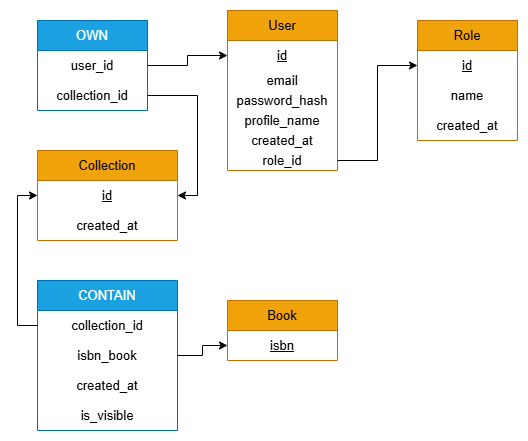
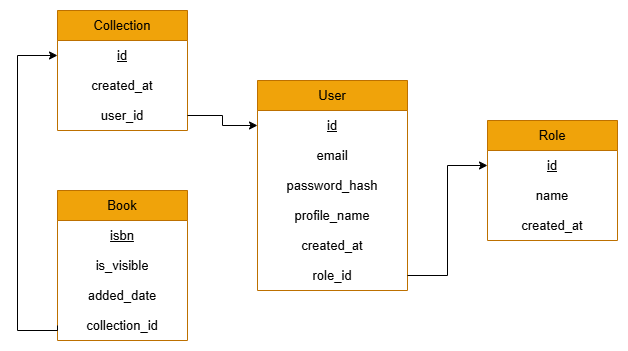
Update MCD, MLD, ERD and modified the risk analysis section in README in table form

diff --git a/DICTIONNAIRE_DONNEES.md b/DICTIONNAIRE_DONNEES.md
@@ -36,11 +36,14 @@ Ce document présente le dictionnaire de données du projet WikiBouquin, détail
 |----------|------|-------------|-------------|
 | `id` | INT | PRIMARY KEY, AUTO_INCREMENT | Identifiant unique de la collection |
 | `date_creation` | TIMESTAMP | NOT NULL, DEFAULT CURRENT_TIMESTAMP | Date de création de la collection |
+| `utilisateur_id` | INT | NOT NULL, FOREIGN KEY REFERENCES utilisateur(id) ON DELETE CASCADE |Identifiant de l’utilisateur propriétaire de la collection |
 
 **Règles métier :**
 - Une collection appartient à un seul utilisateur (relation 1:1 avec POSSEDER)
 - Dans le MVP, chaque utilisateur a une collection unique
 - Extension possible : collections multiples par utilisateur
+
+- La suppression d’un utilisateur entraîne automatiquement celle de ses collections grâce à la contrainte ON DELETE CASCADE.
 
 ---
 
@@ -49,6 +52,9 @@ Ce document présente le dictionnaire de données du projet WikiBouquin, détail
 | Attribut | Type | Contraintes | Description |
 |----------|------|-------------|-------------|
 | `isbn` | VARCHAR(17) | PRIMARY KEY | ISBN du livre (format ISBN-10 ou ISBN-13) |
+| `date_ajout` | TIMESTAMP | NOT NULL, DEFAULT CURRENT_TIMESTAMP | Date d’ajout du livre dans la collection |
+| `is_visible` | BOOLEAN | NOT NULL, DEFAULT TRUE | Indique si le livre est visible publiquement ou non |
+| `collection_id` | INT | NOT NULL, FOREIGN KEY REFERENCES collection(id) ON DELETE CASCADE | Identifiant de la collection à laquelle appartient le livre |
 
 **Note :** Toutes les autres informations (titre, auteur, éditeur, etc.) sont récupérées dynamiquement via l'API externe [OpenLibrary](https://openlibrary.org/developers/api) lors de l'affichage ou de la recherche. Elles ne sont pas stockées dans la base locale.
 
@@ -57,48 +63,6 @@ Ce document présente le dictionnaire de données du projet WikiBouquin, détail
 - Seul l'ISBN est obligatoire, les autres données sont enrichies depuis l'API
 - Les données proviennent de l'API OpenLibrary
 - Le cache permet d'optimiser les performances
-
----
-
-## 🔗 Associations (tables de liaison)
-
-### 🏠 Association : `posseder`
-*Relation 1:N entre utilisateur et collection*
-
-| Attribut | Type | Contraintes | Description |
-|----------|------|-------------|-------------|
-| `utilisateur_id` | INT | FOREIGN KEY, UNIQUE, NOT NULL | Référence vers l'utilisateur |
-| `collection_id` | INT | FOREIGN KEY, UNIQUE, NOT NULL | Référence vers la collection |
-
-**Contraintes :**
-- `FOREIGN KEY(utilisateur_id) REFERENCES utilisateur(id) ON DELETE CASCADE`
-- `FOREIGN KEY(collection_id) REFERENCES collection(id) ON DELETE CASCADE`
-- `UNIQUE(utilisateur_id)` : Un utilisateur ne peut posséder qu'une collection pour le moment
-    Après le MVP : 1 UTILISATEUR pourra posséder plusieurs COLLECTIONS
-- `UNIQUE(collection_id)` : Une collection n'appartient qu'à un utilisateur
-
----
-
-### 📖 Association : `contenir`
-*Relation 0:N entre collection et livre*
-
-| Attribut | Type | Contraintes | Description |
-|----------|------|-------------|-------------|
-| `collection_id` | INT | FOREIGN KEY, NOT NULL | Référence vers la collection |
-| `livre_isbn` | VARCHAR(17) | FOREIGN KEY, NOT NULL | Référence vers le livre (ISBN) |
-| `date_ajout` | TIMESTAMP | NOT NULL, DEFAULT CURRENT_TIMESTAMP | Date d'ajout du livre à la collection |
-| `is_visible` | BOOLEAN | NOT NULL, DEFAULT true | Livre visible dans la collection (true = public, false = privé) |
-
-**Contraintes :**
-- `PRIMARY KEY(collection_id, livre_isbn)` : Un livre ne peut être qu'une fois dans une collection
-- `FOREIGN KEY(collection_id) REFERENCES collection(id) ON DELETE CASCADE`
-- `FOREIGN KEY(livre_isbn) REFERENCES livre(isbn) ON DELETE CASCADE`
-
-**Règles métier :**
-- Une collection peut contenir 0 à N livres
-- Un livre peut être dans plusieurs collections (différents utilisateurs)
-- Par défaut, les livres sont visibles (is_visible = true)
-- La date_ajout permet de trier par ordre d'ajout
 
 ---
 
@@ -156,24 +120,15 @@ CREATE INDEX idx_utilisateur_nom_profil ON utilisateur(nom_profil);
 CREATE INDEX idx_utilisateur_role_id ON utilisateur(role_id);
 
 -- Table collection
-CREATE INDEX idx_collection_date_creation ON collection(date_creation);
+CREATE INDEX IF NOT EXISTS idx_collection_utilisateur_id ON collection(utilisateur_id);
+CREATE INDEX IF NOT EXISTS idx_collection_date_creation ON collection(date_creation);
 
 -- Table livre
-CREATE INDEX idx_livre_title ON livre(title);
-CREATE INDEX idx_livre_author ON livre(author);
-CREATE INDEX idx_livre_cached_at ON livre(cached_at);
+CREATE INDEX IF NOT EXISTS idx_livre_collection_id ON livre(collection_id);
 
--- Association posseder
-CREATE INDEX idx_posseder_utilisateur_id ON posseder(utilisateur_id);
-CREATE INDEX idx_posseder_collection_id ON posseder(collection_id);
-
--- Association contenir
-CREATE INDEX idx_contenir_collection_id ON contenir(collection_id);
-CREATE INDEX idx_contenir_livre_isbn ON contenir(livre_isbn);
-CREATE INDEX idx_contenir_is_visible ON contenir(is_visible);
-CREATE INDEX idx_contenir_date_ajout ON contenir(date_ajout);
+-- Table role
+CREATE UNIQUE INDEX IF NOT EXISTS uq_role_nom ON role(nom);
 ```
-
 ---
 
 ## 🛡️ Contraintes de sécurité

diff --git a/README.md b/README.md
@@ -11,7 +11,13 @@ Les utilisateurs ont également la possibilité de choisir la visibilité de cha
 La cible principale du projet regroupe les passionnés de lecture, les étudiants, les chercheurs et toute personne souhaitant organiser ou partager ses livres préférés.
 L’interface sera conçue pour être simple, intuitive et totalement responsive, garantissant une expérience fluide sur ordinateur et smartphone.
 
-Les principaux risques concernent la gestion du volume massif de données, la performance du moteur de recherche et la protection des comptes utilisateurs.
+Analyse des risques :
+| Risque principal                   | Description                                                                                   | Mesures prévues / Remédiation                                  | Probabilité | Impact  | Priorité |
+|------------------------------------|-----------------------------------------------------------------------------------------------|----------------------------------------------------------------|------------|---------|----------|
+| Gestion du volume massif de données | Le système pourrait rencontrer des difficultés à stocker et traiter un grand nombre de livres et collections. | Utilisation de bases de données optimisées et performantes.   | Élevée     | Élevé   | Haute    |
+| Performance du moteur de recherche  | Les recherches pourraient devenir lentes avec l’augmentation du nombre de livres ou d’utilisateurs. | Optimisation des index et requêtes, utilisation de caches.    | Moyenne    | Élevé   | Moyenne-Haute |
+| Protection des comptes utilisateurs | Risque de compromission des données sensibles des utilisateurs (emails, mots de passe).      | Chiffrement renforcé des informations sensibles, sauvegardes régulières. | Moyenne    | Élevé   | Haute    |
+
 Pour y remédier, le projet prévoit l’utilisation de bases de données optimisées, de sauvegardes régulières et d’un chiffrement renforcé des informations sensibles.
 
 ## Fonctionnalités
@@ -131,7 +137,7 @@ La liste des **routes** prévues est détaillée dans le fichier [ROUTES.md](ROU
 ## Documents de conception
 
 ### Le diagramme ERD (Entité-Relation-Diagram)
-![schéma de la base de données](schemas/ERD.png)
+![schéma de la base de données](schemas/erd.png)
 
 ### Un diagramme de séquence d'une fonctionnalité complexe
 Accéder à la page d'un livre avec cache "chaud" et "froid".